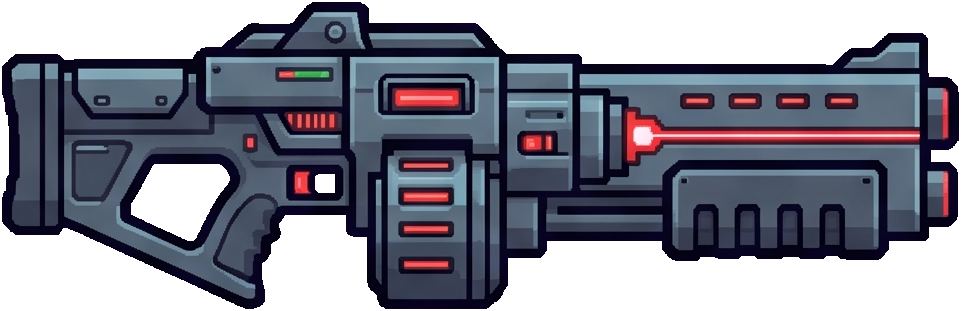
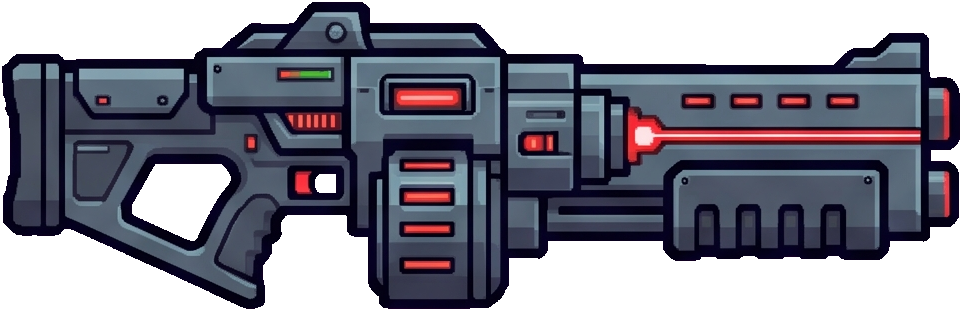
feat(weapons): rework melee slash arc — center pivot + flipX
spawnMeleeHitbox now places the slash arc at the hitbox (hx, hy) with
a center pivot (origin 0.5, 0.5) and always-positive scale. The
horizontal flip for left swings is handled via setFlipX instead of
negative scaleX, so the rotation tween runs cleanly.

Drop the hardcoded +pi offset — the texture is now authored so that
baseAngle = aim + visualRotOffset already faces outward.
rotationOffset from the YAML (with visual.rotationOffset fallback)
is added to the aim angle directly, negated only on left swings to
preserve mirror symmetry.

Sprite depth is bumped to 9999 so the slash is clearly visible on
top of the weapon / character. Tween duration goes 180 -> 200ms.

logic.ts extracts the rotationOffset resolution into a local
variable for readability. plasma-sword sets rotationOffset: 90 to
match the new math (texture was redrawn to face outward at +90).

Weapon PNGs regenerated + raws/weapons_set_6x2.png replaced with
raws/weapons.png as the new source sheet.

diff --git a/src/game/weapons/weapon.ts b/src/game/weapons/weapon.ts
@@ -160,33 +160,39 @@ export function spawnMeleeHitbox(
     let visualObj: Phaser.GameObjects.Shape | Phaser.GameObjects.Sprite | Phaser.GameObjects.Image;
     const scale = opts.scale ?? 0.18;
     const isLeft = Math.cos(opts.angle) < 0;
-    
-    // Add Math.PI (180 degrees) so the moon crescent arc curve faces strictly OUTWARD away from the player
-    const rawRotRad = ((opts.rotationOffset ?? 0) * Math.PI) / 180;
-    const rotRad = isLeft ? -rawRotRad : rawRotRad;
-    const baseRotation = opts.angle + Math.PI + rotRad;
-    const sweepArc = Math.PI / 5;
-    const startRotation = baseRotation - sweepArc;
-    const endRotation = baseRotation + sweepArc;
+
+    // sweepArc: how many radians the arc sweeps during animation
+    const sweepArc = Math.PI / 5; // 36 degrees
+
+    // rotationOffset: extra rotation on the sprite around its own center (YAML-configurable)
+    // Positive = clockwise, negated when facing left to preserve mirror symmetry
+    const rotOffsetRad = ((opts.rotationOffset ?? 0) * Math.PI) / 180;
+    const visualRotOffset = isLeft ? -rotOffsetRad : rotOffsetRad;
+
+    // Base angle pointing OUTWARD from player (same direction as attack)
+    // Start swept back, sweep forward through the attack direction
+    const baseAngle = opts.angle + visualRotOffset;
+    const startRotation = baseAngle - sweepArc;
+    const endRotation = baseAngle + sweepArc;
 
     if (opts.texture && scene.textures.exists(opts.texture)) {
-        // Spawn slash arc at exact weapon Box blade tip (opts.origin) facing along the swing trajectory
-        const sprite = scene.add.image(opts.origin.x, opts.origin.y, opts.texture);
-        sprite.setOrigin(0.1, 0.5);
-
-        const initScaleX = isLeft ? -scale : scale;
-        const targetScaleX = isLeft ? -scale * 1.5 : scale * 1.5;
-
-        sprite.setScale(initScaleX, scale);
+        // Spawn slash arc centered at hitbox position (hx, hy) - in front of player
+        // Center pivot (0.5, 0.5) makes rotationOffset rotate the image around its center
+        const sprite = scene.add.image(hx, hy, opts.texture);
+        sprite.setOrigin(0.5, 0.5);
+        sprite.setDepth(9999); // Always render on top so it's clearly visible
+        // Mirror via flipX when facing left — keeps scaleX always positive so rotation tween is clean
+        sprite.setFlipX(isLeft);
+        sprite.setScale(scale, scale);
         sprite.setRotation(startRotation);
         sprite.setAlpha(1.0);
         scene.tweens.add({
             targets: sprite,
             rotation: endRotation,
             alpha: 0,
-            scaleX: targetScaleX,
+            scaleX: scale * 1.5,
             scaleY: scale * 1.5,
-            duration: 180,
+            duration: 200,
             ease: 'Quad.out',
             onComplete: () => {
                 sprite.destroy();
@@ -196,11 +202,11 @@ export function spawnMeleeHitbox(
         visualObj = sprite;
     } else {
         const rect = scene.add.rectangle(hx, hy, opts.hitWidth, opts.hitHeight, 0xc084fc, 0.7);
-        rect.setRotation(baseRotation);
+        rect.setRotation(opts.angle);
         scene.tweens.add({
             targets: rect,
             alpha: 0,
-            duration: 180,
+            duration: 200,
             onComplete: () => {
                 rect.destroy();
                 scene.matter.world.remove(body);

diff --git a/src/game/weapons/logic.ts b/src/game/weapons/logic.ts
@@ -367,6 +367,7 @@ export class WeaponController {
             // Get exact position of the weapon Box tip (blade tip) during swing
             const bladeTipPos = this.visualController.getMuzzlePosition(handX, handY);
 
+            const meleeRotationOffset = slot.spec.bullet?.rotationOffset ?? slot.spec.visual?.rotationOffset ?? 0;
             const meleeBullet = spawnMeleeHitbox(this.scene, this.matter, {
                 origin: { x: bladeTipPos.x, y: bladeTipPos.y },
                 angle,
@@ -376,7 +377,7 @@ export class WeaponController {
                 damage: slot.spec.damage,
                 texture: slot.spec.bullet?.texture,
                 scale: slot.spec.bullet?.scale ?? 0.18,
-                rotationOffset: slot.spec.bullet?.rotationOffset ?? slot.spec.visual?.rotationOffset ?? 0,
+                rotationOffset: meleeRotationOffset,
             });
 
             this.bullets.push(meleeBullet);
